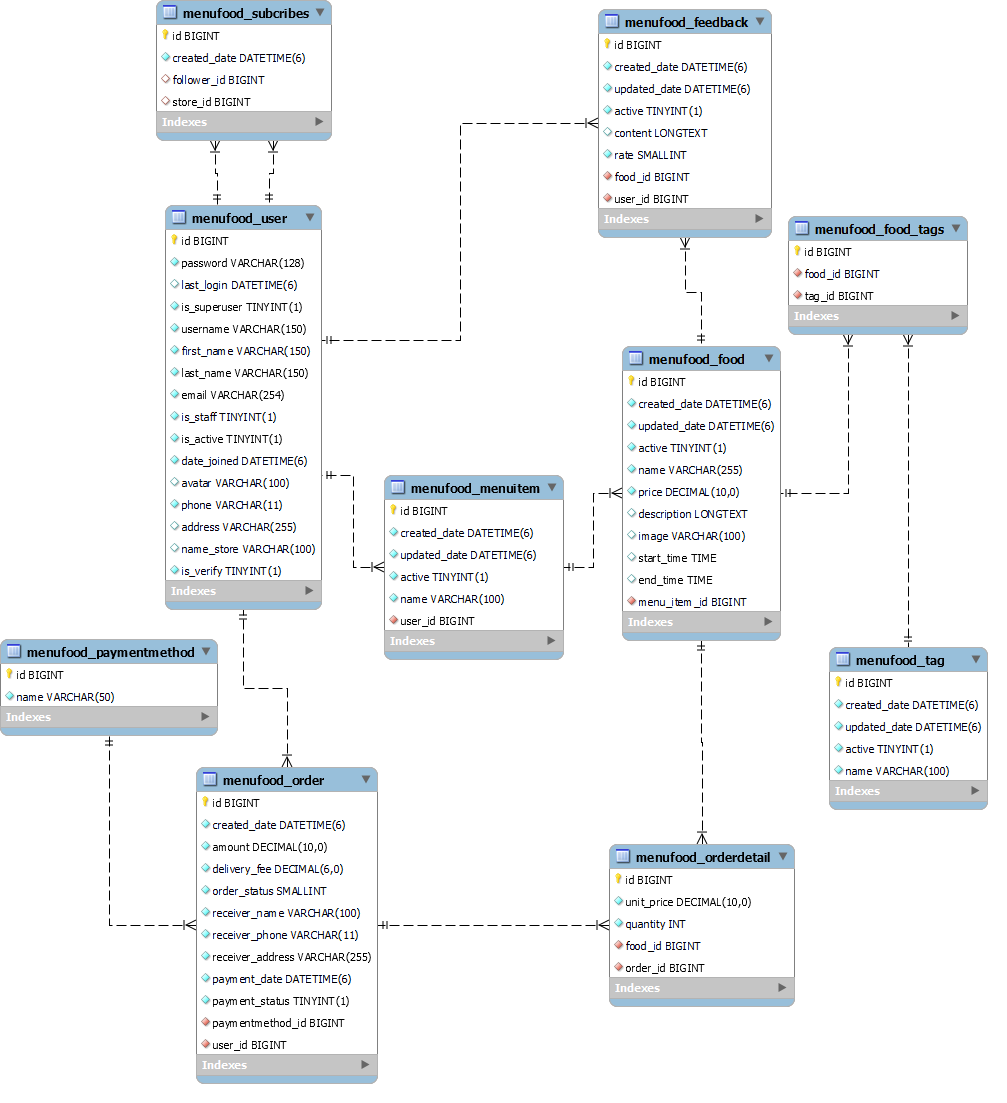
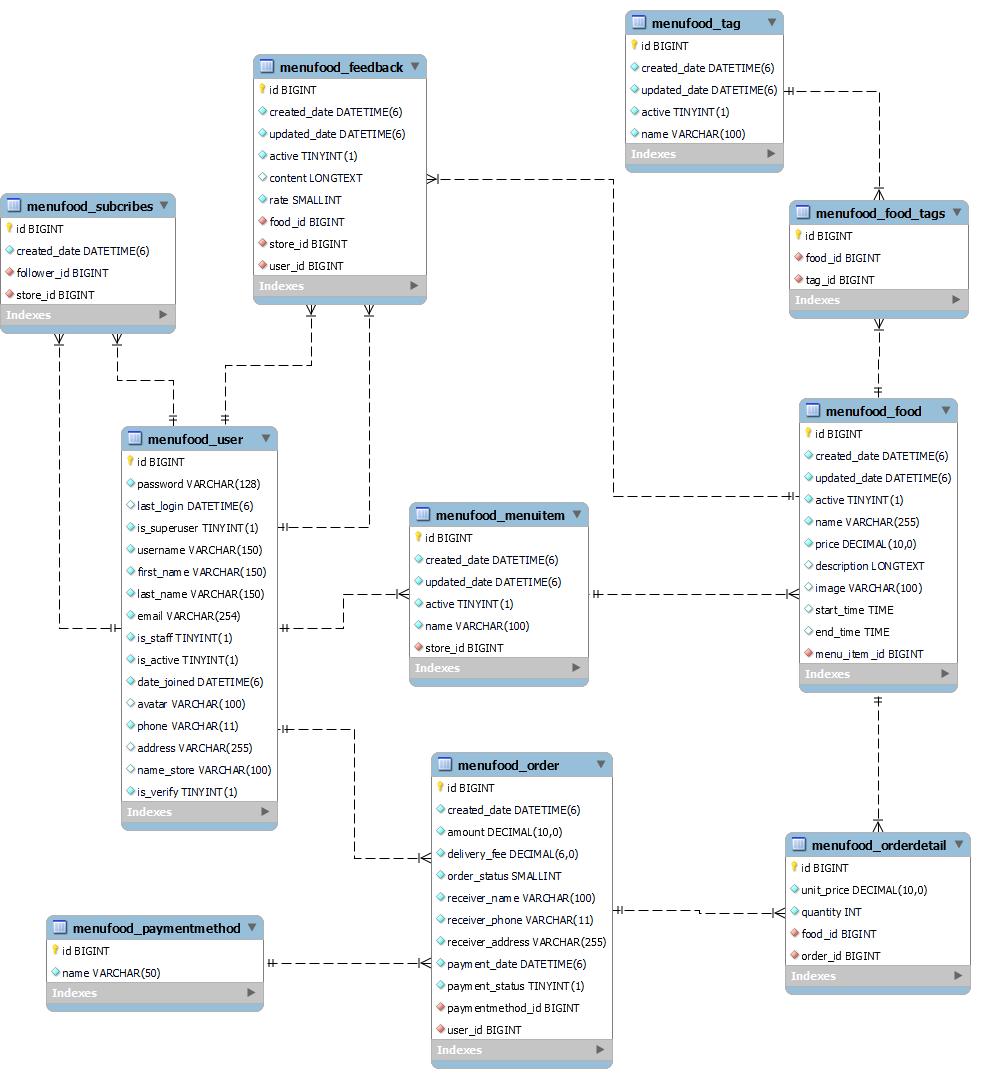
update database complete

diff --git a/FoodLocationSystem/foodlocation/menufood/migrations/0001_initial.py b/FoodLocationSystem/foodlocation/menufood/migrations/0001_initial.py
@@ -1,4 +1,4 @@
-# Generated by Django 4.1.7 on 2023-03-13 09:16
+# Generated by Django 4.1.7 on 2023-03-14 04:58
 
 import ckeditor.fields
 from django.conf import settings
@@ -33,7 +33,7 @@ class Migration(migrations.Migration):
                 ('is_active', models.BooleanField(default=True, help_text='Designates whether this user should be treated as active. Unselect this instead of deleting accounts.', verbose_name='active')),
                 ('date_joined', models.DateTimeField(default=django.utils.timezone.now, verbose_name='date joined')),
                 ('avatar', models.ImageField(null=True, upload_to='users/%Y/%m')),
-                ('phone', models.CharField(max_length=11)),
+                ('phone', models.CharField(max_length=11, unique=True)),
                 ('address', models.CharField(max_length=255, null=True)),
                 ('name_store', models.CharField(max_length=100, null=True)),
                 ('is_verify', models.BooleanField(default=False)),
@@ -47,6 +47,39 @@ class Migration(migrations.Migration):
             },
             managers=[
                 ('objects', django.contrib.auth.models.UserManager()),
+            ],
+        ),
+        migrations.CreateModel(
+            name='Food',
+            fields=[
+                ('id', models.BigAutoField(auto_created=True, primary_key=True, serialize=False, verbose_name='ID')),
+                ('created_date', models.DateTimeField(auto_now_add=True)),
+                ('updated_date', models.DateTimeField(auto_now=True)),
+                ('active', models.BooleanField(default=True)),
+                ('name', models.CharField(max_length=255)),
+                ('price', models.DecimalField(decimal_places=0, max_digits=10)),
+                ('description', ckeditor.fields.RichTextField(null=True)),
+                ('image', models.ImageField(null=True, upload_to='foods/%Y/%m')),
+                ('start_time', models.TimeField(null=True)),
+                ('end_time', models.TimeField(null=True)),
+            ],
+            options={
+                'abstract': False,
+            },
+        ),
+        migrations.CreateModel(
+            name='Order',
+            fields=[
+                ('id', models.BigAutoField(auto_created=True, primary_key=True, serialize=False, verbose_name='ID')),
+                ('created_date', models.DateTimeField(auto_now_add=True)),
+                ('amount', models.DecimalField(decimal_places=0, max_digits=10)),
+                ('delivery_fee', models.DecimalField(decimal_places=0, max_digits=6)),
+                ('order_status', models.PositiveSmallIntegerField(choices=[(0, 'PENDING'), (1, 'ACCEPTED'), (2, 'SUCCESSED')], default=0)),
+                ('receiver_name', models.CharField(max_length=100)),
+                ('receiver_phone', models.CharField(max_length=11)),
+                ('receiver_address', models.CharField(max_length=255)),
+                ('payment_date', models.DateTimeField(auto_now=True)),
+                ('payment_status', models.BooleanField(default=False)),
             ],
         ),
         migrations.CreateModel(
@@ -70,21 +103,24 @@ class Migration(migrations.Migration):
             },
         ),
         migrations.CreateModel(
-            name='Order',
+            name='OrderDetail',
             fields=[
                 ('id', models.BigAutoField(auto_created=True, primary_key=True, serialize=False, verbose_name='ID')),
-                ('created_date', models.DateTimeField(auto_now_add=True)),
-                ('amount', models.DecimalField(decimal_places=0, max_digits=10)),
-                ('delivery_fee', models.DecimalField(decimal_places=0, max_digits=6)),
-                ('order_status', models.PositiveSmallIntegerField(choices=[(0, 'PENDING'), (1, 'ACCEPTED'), (2, 'SUCCESSED')], default=0)),
-                ('receiver_name', models.CharField(max_length=100)),
-                ('receiver_phone', models.CharField(max_length=11)),
-                ('receiver_address', models.CharField(max_length=255)),
-                ('payment_date', models.DateTimeField(auto_now=True)),
-                ('payment_status', models.BooleanField(default=False)),
-                ('paymentmethod', models.ForeignKey(on_delete=django.db.models.deletion.PROTECT, to='menufood.paymentmethod')),
-                ('user', models.ForeignKey(on_delete=django.db.models.deletion.PROTECT, to=settings.AUTH_USER_MODEL)),
+                ('unit_price', models.DecimalField(decimal_places=0, max_digits=10)),
+                ('quantity', models.IntegerField(default=1)),
+                ('food', models.ForeignKey(on_delete=django.db.models.deletion.PROTECT, to='menufood.food')),
+                ('order', models.ForeignKey(on_delete=django.db.models.deletion.PROTECT, to='menufood.order')),
             ],
+        ),
+        migrations.AddField(
+            model_name='order',
+            name='paymentmethod',
+            field=models.ForeignKey(on_delete=django.db.models.deletion.PROTECT, to='menufood.paymentmethod'),
+        ),
+        migrations.AddField(
+            model_name='order',
+            name='user',
+            field=models.ForeignKey(on_delete=django.db.models.deletion.PROTECT, to=settings.AUTH_USER_MODEL),
         ),
         migrations.CreateModel(
             name='MenuItem',
@@ -94,30 +130,49 @@ class Migration(migrations.Migration):
                 ('updated_date', models.DateTimeField(auto_now=True)),
                 ('active', models.BooleanField(default=True)),
                 ('name', models.CharField(max_length=100, unique=True)),
-                ('user', models.ForeignKey(on_delete=django.db.models.deletion.CASCADE, to=settings.AUTH_USER_MODEL)),
+                ('store', models.ForeignKey(on_delete=django.db.models.deletion.CASCADE, related_name='menuitem_store', to=settings.AUTH_USER_MODEL)),
             ],
             options={
                 'abstract': False,
             },
         ),
+        migrations.AddField(
+            model_name='food',
+            name='menu_item',
+            field=models.ForeignKey(on_delete=django.db.models.deletion.PROTECT, to='menufood.menuitem'),
+        ),
+        migrations.AddField(
+            model_name='food',
+            name='tags',
+            field=models.ManyToManyField(related_name='foods', to='menufood.tag'),
+        ),
         migrations.CreateModel(
-            name='Food',
+            name='Subcribes',
+            fields=[
+                ('id', models.BigAutoField(auto_created=True, primary_key=True, serialize=False, verbose_name='ID')),
+                ('created_date', models.DateTimeField(auto_now_add=True)),
+                ('follower', models.ForeignKey(on_delete=django.db.models.deletion.CASCADE, related_name='follower', to=settings.AUTH_USER_MODEL)),
+                ('store', models.ForeignKey(on_delete=django.db.models.deletion.CASCADE, related_name='store', to=settings.AUTH_USER_MODEL)),
+            ],
+            options={
+                'unique_together': {('follower', 'store')},
+            },
+        ),
+        migrations.CreateModel(
+            name='Feedback',
             fields=[
                 ('id', models.BigAutoField(auto_created=True, primary_key=True, serialize=False, verbose_name='ID')),
                 ('created_date', models.DateTimeField(auto_now_add=True)),
                 ('updated_date', models.DateTimeField(auto_now=True)),
                 ('active', models.BooleanField(default=True)),
-                ('name', models.CharField(max_length=255)),
-                ('price', models.DecimalField(decimal_places=0, max_digits=10)),
-                ('description', ckeditor.fields.RichTextField(null=True)),
-                ('image', models.ImageField(null=True, upload_to='foods/%Y/%m')),
-                ('start_time', models.TimeField(null=True)),
-                ('end_time', models.TimeField(null=True)),
-                ('menu_item', models.ForeignKey(on_delete=django.db.models.deletion.PROTECT, to='menufood.menuitem')),
-                ('tags', models.ManyToManyField(related_name='foods', to='menufood.tag')),
+                ('content', models.TextField(null=True)),
+                ('rate', models.PositiveSmallIntegerField(default=0)),
+                ('food', models.ForeignKey(on_delete=django.db.models.deletion.PROTECT, to='menufood.food')),
+                ('store', models.ForeignKey(on_delete=django.db.models.deletion.PROTECT, related_name='feedback_store', to=settings.AUTH_USER_MODEL)),
+                ('user', models.ForeignKey(on_delete=django.db.models.deletion.PROTECT, related_name='user', to=settings.AUTH_USER_MODEL)),
             ],
             options={
-                'abstract': False,
+                'unique_together': {('user', 'store')},
             },
         ),
     ]

diff --git a/FoodLocationSystem/foodlocation/menufood/models.py b/FoodLocationSystem/foodlocation/menufood/models.py
@@ -10,7 +10,7 @@ from enum import Enum
 
 class User(AbstractUser):
     avatar = models.ImageField(upload_to='users/%Y/%m', null=True)
-    phone = models.CharField(max_length=11)
+    phone = models.CharField(max_length=11, unique=True)
     address = models.CharField(max_length=255, null=True)
 
     name_store = models.CharField(max_length=100, null=True)
@@ -30,7 +30,7 @@ class BaseModel(models.Model):
 class MenuItem(BaseModel):
     name = models.CharField(max_length=100, unique=True)
 
-    user = models.ForeignKey(User, on_delete=models.CASCADE)
+    store = models.ForeignKey(User, related_name='menuitem_store', on_delete=models.CASCADE)
 
     def __str__(self):
         return self.name
@@ -110,16 +110,20 @@ class OrderDetail(models.Model):
 class Feedback(BaseModel):
     content = models.TextField(null=True)
 
-    user = models.ForeignKey(User, on_delete=models.PROTECT)
+    user = models.ForeignKey(User, related_name='user', on_delete=models.PROTECT)
     food = models.ForeignKey(Food, on_delete=models.PROTECT)
+    store = models.ForeignKey(User, related_name='feedback_store', on_delete=models.PROTECT)
     rate = models.PositiveSmallIntegerField(default=0)
+
+    class Meta:
+        unique_together = ("user", "store")
 
 
 class Subcribes(models.Model):
     created_date = models.DateTimeField(auto_now_add=True)
 
-    follower = models.ForeignKey(User, related_name='follower', on_delete=models.SET_NULL, null=True)
-    store = models.ForeignKey(User, related_name='store', on_delete=models.SET_NULL, null=True)
+    follower = models.ForeignKey(User, related_name='follower', on_delete=models.CASCADE)
+    store = models.ForeignKey(User, related_name='store', on_delete=models.CASCADE)
 
     class Meta:
         unique_together = ("follower", "store")

diff --git a/FoodLocationSystem/foodlocation/menufood/serializers.py b/FoodLocationSystem/foodlocation/menufood/serializers.py
@@ -6,4 +6,4 @@ class FoodSerializer(ModelSerializer):
 
     class Meta:
         model = Food
-        fields = ['id', 'name', 'created_date', 'category']
+        fields = ['id', 'name', 'created_date', 'menu_item']
